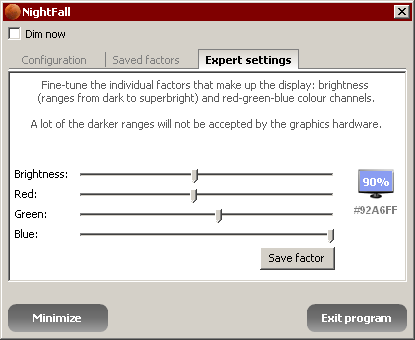
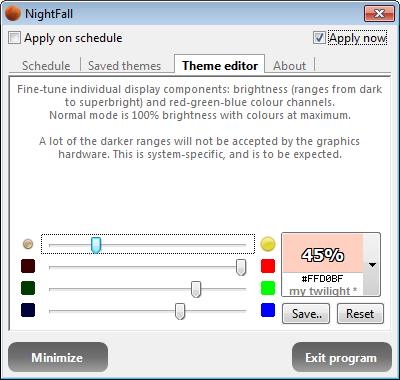
Updated screenshots for v2.

diff --git a/screens.html b/screens.html
@@ -53,18 +53,28 @@
         <h2>Screenshots</h2>
 
         <p>
-        Main program screen:<br />
-        <img src="img/screen_main.png" width="415" height="340" />
+        Schedule screen:<br />
+        <img src="img/screen_schedule.png" width="400" height="380" />
         </p>
 
         <p>
-        Saved factors screen:<br />
-        <img src="img/screen_factors.png" width="415" height="340" />
+        Schedule screen when theme applied:<br />
+        <img src="img/screen_schedule_dimmed.png" width="400" height="380" />
         </p>
 
         <p>
-        Expert settings screen:<br />
-        <img src="img/screen_expert.png" width="415" height="340" />
+        Schedule screen when theme suspended:<br />
+        <img src="img/screen_schedule_suspend.png" width="400" height="380" />
+        </p>
+
+        <p>
+        Saved themes screen:<br />
+        <img src="img/screen_themes.png" width="400" height="380" />
+        </p>
+
+        <p>
+        Theme editor screen:<br />
+        <img src="img/screen_editor.png" width="400" height="380" />
         </p>
 
       </section>
